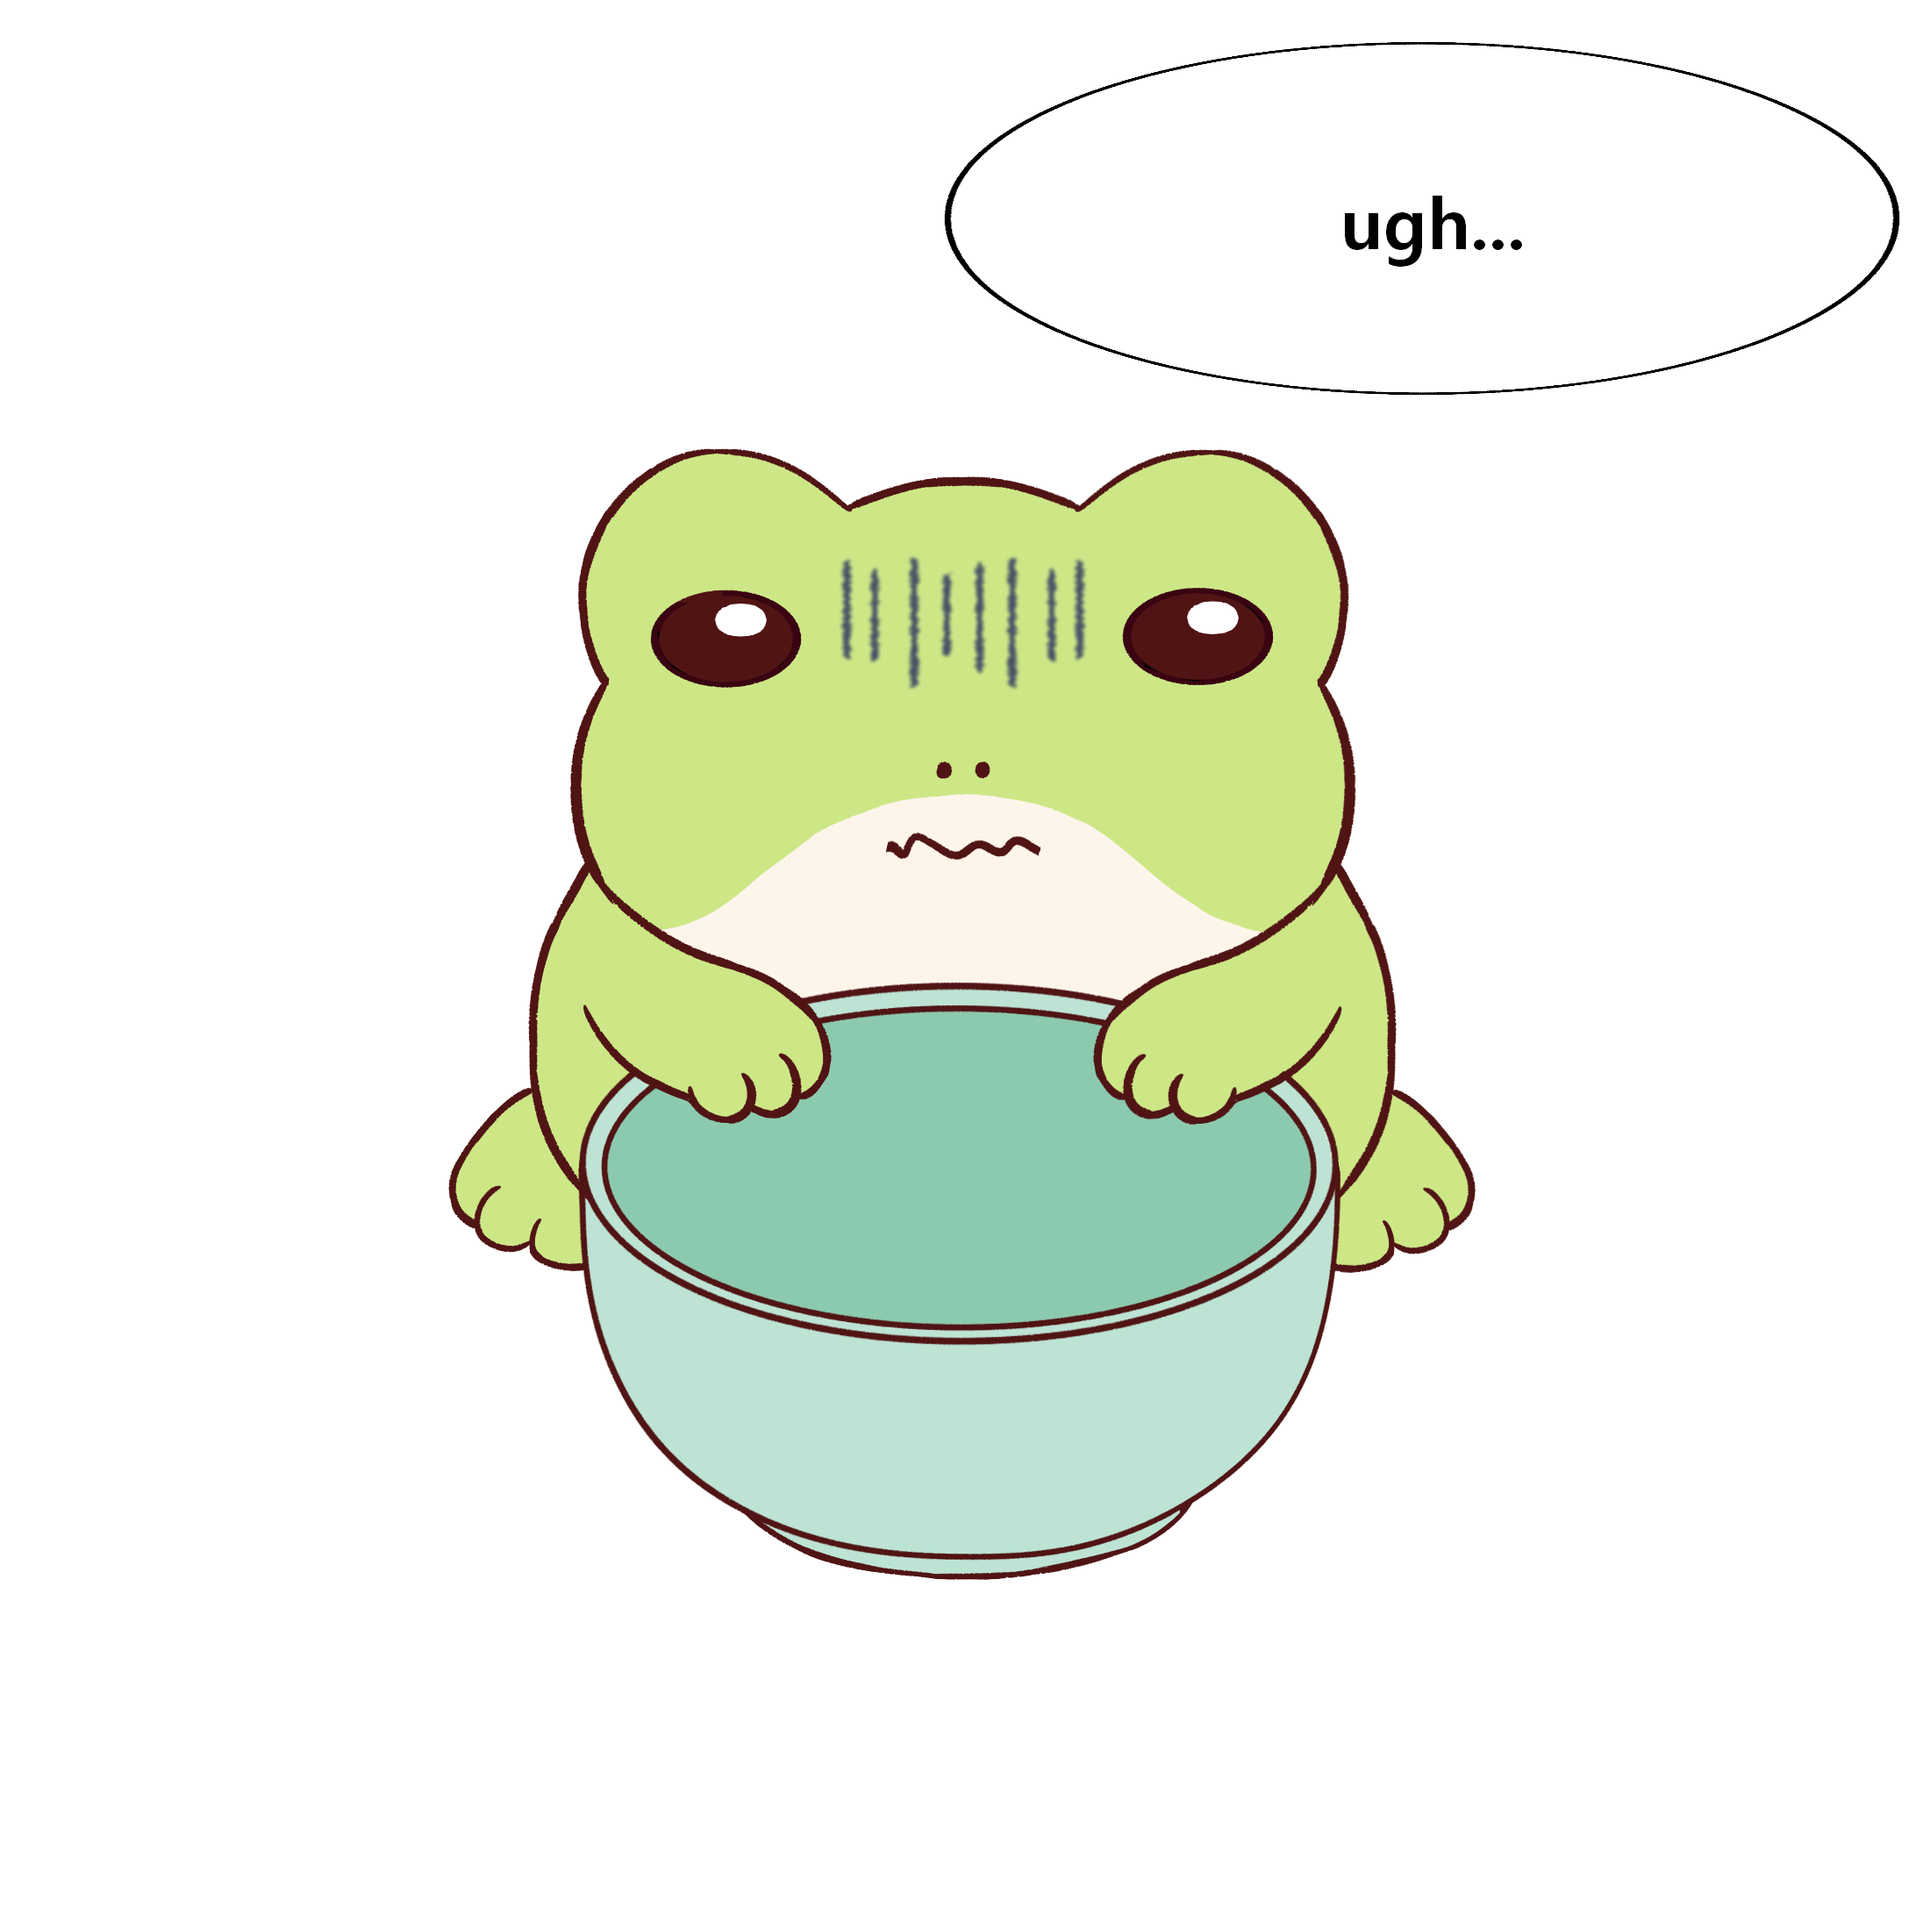
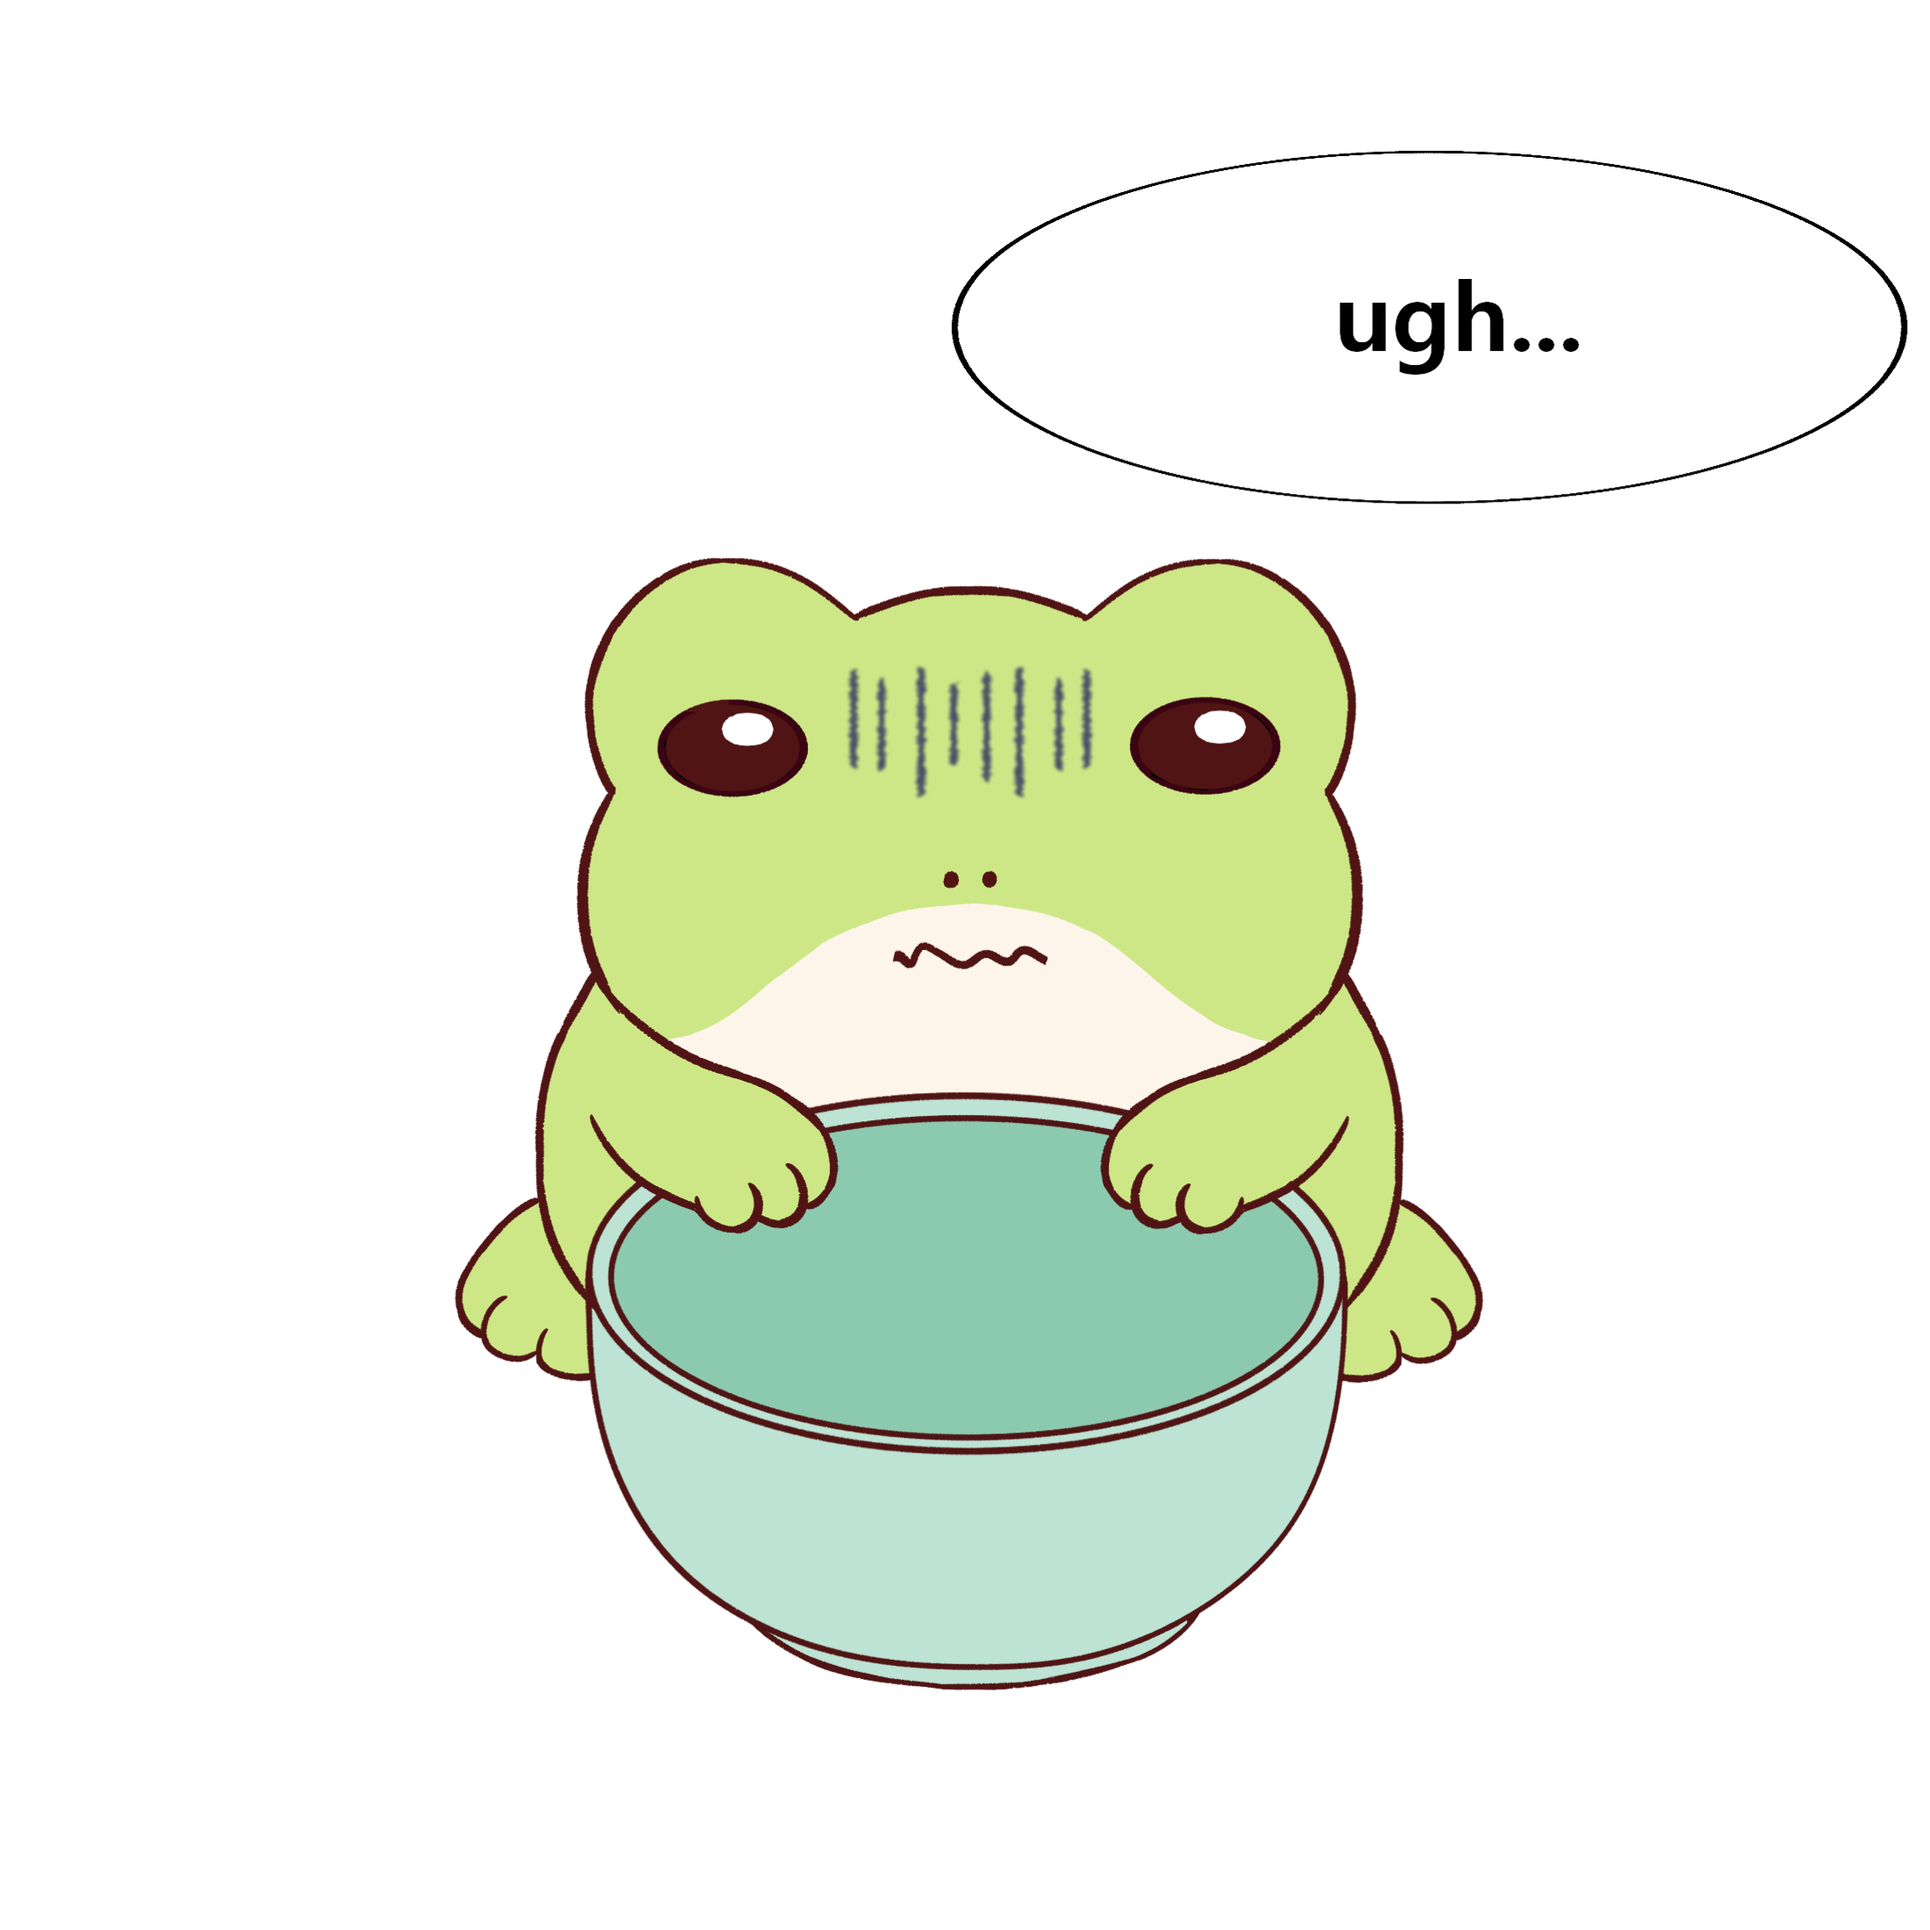
Se cambiaron los estilos para las versiones mobile y tablet, también se cambió el texto de cargando para las comidas

diff --git a/src/App.css b/src/App.css
@@ -5,31 +5,27 @@
     font-family: Arial, Helvetica, sans-serif;
 }
 
-.app-container {
-    width: 100vw;
-    margin: 0 auto;
-}
-
-.frame {
-    width: 100%;
-    height: 100%;
-    position: absolute;
-    display: flex;
-    justify-content: center;
-    top: 0;
-    z-index: -1;
+body {
     background: #ffefef;
+    font-size: 1.2em;
 }
 
-.frame img {
-    width:fit-content;
+.app-container {
+    width: 90vw;
+    height: 95vh;
     margin: 0 auto;
+    max-width: 100vw;
+    max-height: 100vh;
+    background-image: url("img/yellow-frame.png");
+    background-repeat: no-repeat;
+    background-size: contain;
+    background-position: top center;
 }
 
 .hunger-level {
     display: flex;
     justify-content: end;
-    width: 65%;
+    width: 70%;
     font-size: 1.3em;
 }
 
@@ -54,7 +50,7 @@
     color: #000;
     display: flex;
     justify-content: center;
-    width: 300px;
+    width: 20%;
     margin: 0 auto;
 }
 
@@ -64,4 +60,25 @@
 
 .loseStyle {
     background: #ee5050;
+}
+
+.food-loading {
+    display: flex;
+    justify-content: center;
+    align-items: center;
+}
+.food-loading p {
+    font-size: 1.3em;
+}   
+
+.food-loading img {
+    width: 50px;
+    margin: 0 4px;
+}
+
+
+@media screen and (max-width: 2700px) {
+    .btn-section {
+        width: 75%;
+    }
 }

diff --git a/src/components/FoodSection.jsx b/src/components/FoodSection.jsx
@@ -2,6 +2,7 @@ import "../styles/foodSection.css"
 import { FoodCard } from './FoodCard.jsx'
 import { get } from '../services/get.js'
 import { useEffect, useState } from "react"
+import loading from '../img/loading.gif'
 
 export function FoodSection({ handleEated }) {
   const [foods, setFoods] = useState([])
@@ -13,7 +14,8 @@ export function FoodSection({ handleEated }) {
   }, [])
 
     return <div>
-              {foods.length == 0 && <p>Cargando...</p>}
+              {foods.length == 0 && <div className="food-loading"><p>Cargando comidas</p><img src={loading} alt="gif rueda de carga"/></div>}
+
               <ul id='foods-list' className="food-section">
                 
                 {

diff --git a/src/components/FrogCharacter.jsx b/src/components/FrogCharacter.jsx
@@ -1,9 +1,10 @@
 import '../styles/frogCharacter.css'
+import frogHungry from '../img/frog-buddyv2.png'
 
 export function FrogCharacter() {
 
     return <div className='rana-section' style={{display: 'flex'}}>
-              <img id='img-rana' className='img-rana' src="https://i.postimg.cc/xCqNQ3YL/frog-buddyv2.png" alt="dibujo de una rana de frente" width={500}/>
+              <img id='img-rana' className='img-rana' src={frogHungry} alt="dibujo de una rana de frente" />
               <p id='no-eating'><strong>¡Cof-cof!</strong> No puedo comer más de una comida al mismo tiempo</p>
             </div>
 }

diff --git a/src/styles/presentacion.css b/src/styles/presentacion.css
@@ -21,7 +21,7 @@
     color:#fec3ee;
     font-size: 2.1em;
     position: absolute;
-    top: 14%;
+    top: 12.5%;
     left: 51.5%;
 }
 
@@ -29,4 +29,20 @@
     padding-top: 10px;
     font-family: "Akaya Telivigala", serif;
     color: #11500c;
+}
+
+@media screen and (max-width: 1300px) {
+    .secondary.title {
+        left: 55.5%;
+    }
+    .presentacion {
+        padding: 50px 0 20px 0;
+    }
+}
+
+@media screen and (max-width: 799px) {
+    .secondary.title {
+        top: 17.5%;
+        left: 57.5%;
+    }
 }

diff --git a/src/components/FoodCard.jsx b/src/components/FoodCard.jsx
@@ -5,7 +5,7 @@ export function FoodCard({ imgName, imgFood, type, handleEated, id, isYummy}) {
 
     return <div onClick={handleEated} className='food-card' id={id} data-isyummy={`${isYummy}`}>
             <h3 className='food-title'>{imgName}</h3>
-            <img className="img-food" src={`${imgFood}`} alt={`Comida ${type}`} width={200}/>
+            <img className="img-food" src={`${imgFood}`} alt={`Comida ${type}`}/>
             <span className="food-type">{type}</span>
         </div>
 

diff --git a/src/App.jsx b/src/App.jsx
@@ -116,7 +116,6 @@ function App() {
         <FoodSection handleEated={(e) => handleFrogEat(e)} />
         <div className="winStyle" id="endGame"></div>
         <p className='hunger-level'><span>Nivel de hambre: {frogHunger}</span></p>
-        <div className='frame'><img src="https://i.postimg.cc/7PdQTqsy/yellow-frame.png" alt="Marco amarillo para el borde del juego" /></div>
        
       <div className='btn-section'><RefreshButton /></div>
       </div>

diff --git a/src/styles/foodCard.css b/src/styles/foodCard.css
@@ -19,6 +19,7 @@
     filter: grayscale();
     cursor: pointer;
     border: 4px solid #e876ca;
+    width: 200px;
 }
 
 .img-food:hover {
@@ -28,8 +29,14 @@
 .food-type {
     position: absolute;
     font-weight: bold;
-    top: 85%;
-    left: 23%;
+    top: 81%;
+    left: 22%;
     font-size: 1.2em;
     color: brown;
+}
+
+@media screen and (max-width: 825px) {
+    .img-food {
+        width: 125px;
+    }
 }

diff --git a/src/styles/foodSection.css b/src/styles/foodSection.css
@@ -2,6 +2,9 @@
     display: flex;
     justify-content: center;
     padding: 0 20px 25px 20px;
+    width: 70%;
+    margin: 0 auto;
+    flex-wrap: wrap;
 }
 
 #empty-text {
@@ -9,4 +12,10 @@
     font-weight: lighter;
     display: none;
     margin-bottom: 35px;
+}
+
+@media screen and (max-width: 825px) {
+    .food-section {
+        width: 90%;
+    }
 }

diff --git a/src/styles/frogCharacter.css b/src/styles/frogCharacter.css
@@ -7,6 +7,10 @@
     gap: 10px;
 }   
 
+.rana-section img {
+    width: 500px;
+}
+
 .rana-text {
     font-size: 1.3em;
     position: absolute;
@@ -32,4 +36,14 @@
 
 #no-eating span {
     font-size: 1em;
+}
+
+@media screen and (max-width: 825px) {
+    .rana-section {
+        width: 100%;
+    }    
+
+    .rana-section img {
+        width: 90%;
+    }
 }
